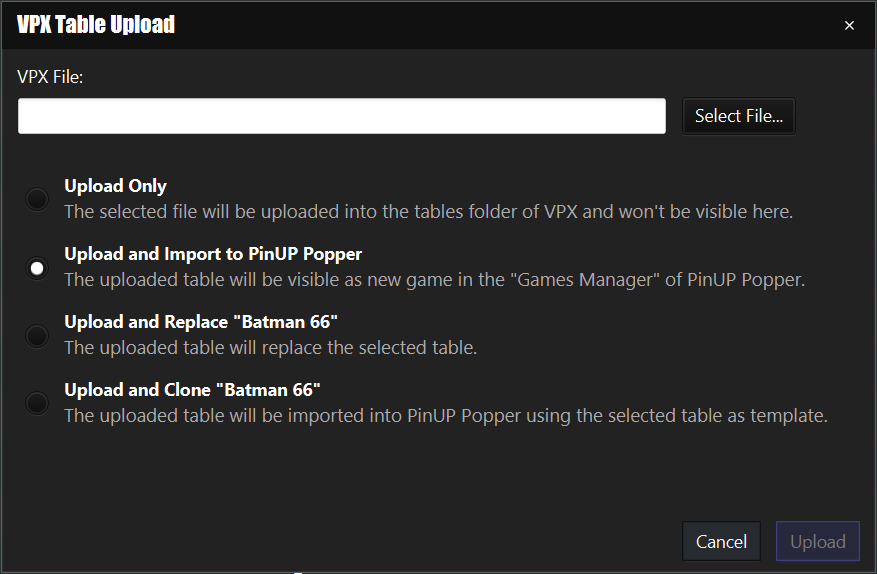
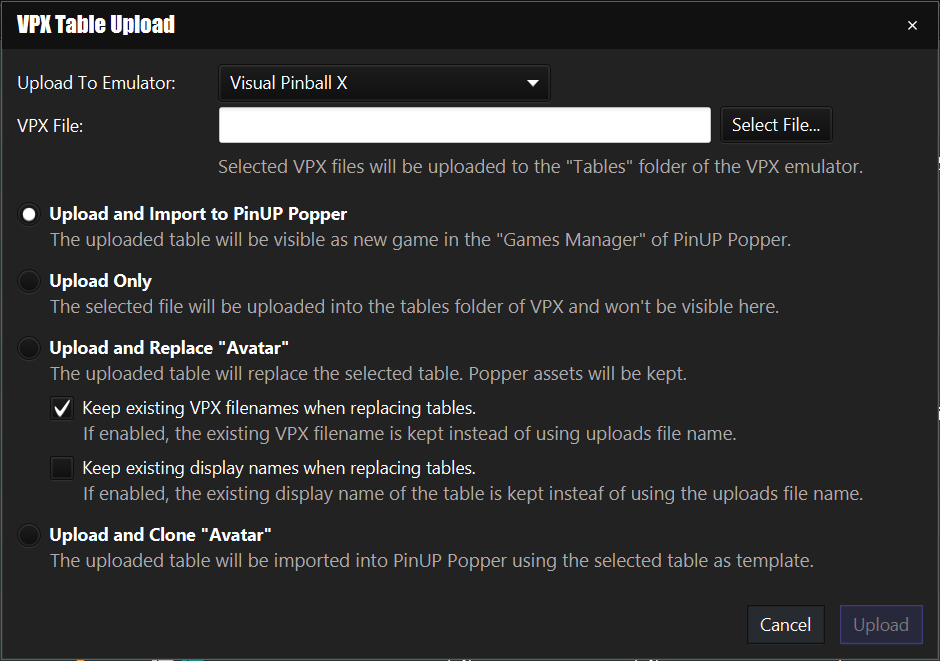
doc

diff --git a/vpin-studio-ui/src/main/java/de/mephisto/vpin/ui/tables/dialogs/TableUploadController.java b/vpin-studio-ui/src/main/java/de/mephisto/vpin/ui/tables/dialogs/TableUploadController.java
@@ -3,9 +3,11 @@ package de.mephisto.vpin.ui.tables.dialogs;
 import de.mephisto.vpin.commons.fx.DialogController;
 import de.mephisto.vpin.commons.utils.VpxArchiveAnalyzer;
 import de.mephisto.vpin.commons.utils.WidgetFactory;
+import de.mephisto.vpin.restclient.PreferenceNames;
 import de.mephisto.vpin.restclient.games.GameEmulatorRepresentation;
 import de.mephisto.vpin.restclient.games.GameRepresentation;
 import de.mephisto.vpin.restclient.games.descriptors.TableUploadDescriptor;
+import de.mephisto.vpin.restclient.preferences.ServerSettings;
 import de.mephisto.vpin.ui.Studio;
 import de.mephisto.vpin.ui.util.ProgressDialog;
 import de.mephisto.vpin.ui.util.StudioFileChooser;
@@ -28,6 +30,7 @@ import java.net.URL;
 import java.util.List;
 import java.util.ResourceBundle;
 
+import static de.mephisto.vpin.ui.Studio.client;
 import static de.mephisto.vpin.ui.Studio.stage;
 
 public class TableUploadController implements Initializable, DialogController {
@@ -47,6 +50,12 @@ public class TableUploadController implements Initializable, DialogController {
 
   @FXML
   private RadioButton uploadAndCloneRadio;
+
+  @FXML
+  private CheckBox keepNamesCheckbox;
+
+  @FXML
+  private CheckBox keepDisplayNamesCheckbox;
 
   @FXML
   private ComboBox<GameEmulatorRepresentation> emulatorCombo;
@@ -150,6 +159,8 @@ public class TableUploadController implements Initializable, DialogController {
 
   @Override
   public void initialize(URL url, ResourceBundle resourceBundle) {
+    ServerSettings serverSettings = client.getPreferenceService().getJsonPreference(PreferenceNames.SERVER_SETTINGS, ServerSettings.class);
+
     this.result = false;
     this.selection = null;
     this.uploadBtn.setDisable(true);
@@ -174,6 +185,19 @@ public class TableUploadController implements Initializable, DialogController {
     uploadAndImportRadio.setToggleGroup(toggleGroup);
     uploadAndCloneRadio.setToggleGroup(toggleGroup);
     uploadAndReplaceRadio.setToggleGroup(toggleGroup);
+
+
+    keepNamesCheckbox.setSelected(serverSettings.isVpxKeepFileNames());
+    keepNamesCheckbox.selectedProperty().addListener((observableValue, aBoolean, t1) -> {
+      serverSettings.setVpxKeepFileNames(t1);
+      client.getPreferenceService().setJsonPreference(PreferenceNames.SERVER_SETTINGS, serverSettings);
+    });
+
+    keepDisplayNamesCheckbox.setSelected(serverSettings.isVpxKeepDisplayNames());
+    keepDisplayNamesCheckbox.selectedProperty().addListener((observableValue, aBoolean, t1) -> {
+      serverSettings.setVpxKeepDisplayNames(t1);
+      client.getPreferenceService().setJsonPreference(PreferenceNames.SERVER_SETTINGS, serverSettings);
+    });
   }
 
   public void setGame(GameRepresentation game) {
@@ -189,6 +213,8 @@ public class TableUploadController implements Initializable, DialogController {
     }
     else {
       this.uploadAndReplaceRadio.setDisable(true);
+      this.keepDisplayNamesCheckbox.setDisable(true);
+      this.keepNamesCheckbox.setDisable(true);
       this.uploadAndCloneRadio.setDisable(true);
       this.gameId = -1;
     }

diff --git a/vpin-studio-ui/src/main/java/de/mephisto/vpin/ui/preferences/ServerSettingsPreferencesController.java b/vpin-studio-ui/src/main/java/de/mephisto/vpin/ui/preferences/ServerSettingsPreferencesController.java
@@ -1,13 +1,10 @@
 package de.mephisto.vpin.ui.preferences;
 
 import de.mephisto.vpin.commons.fx.OverlayWindowFX;
-import de.mephisto.vpin.commons.fx.UIDefaults;
 import de.mephisto.vpin.restclient.PreferenceNames;
 import de.mephisto.vpin.restclient.preferences.ServerSettings;
 import de.mephisto.vpin.restclient.representations.PreferenceEntryRepresentation;
 import de.mephisto.vpin.ui.PreferencesController;
-import javafx.beans.value.ChangeListener;
-import javafx.beans.value.ObservableValue;
 import javafx.collections.FXCollections;
 import javafx.fxml.FXML;
 import javafx.fxml.Initializable;
@@ -36,12 +33,6 @@ public class ServerSettingsPreferencesController implements Initializable {
 
   @FXML
   private Spinner<Integer> idleSpinner;
-
-  @FXML
-  private CheckBox keepNamesCheckbox;
-
-  @FXML
-  private CheckBox keepDisplayNamesCheckbox;
 
   @FXML
   private CheckBox launchPopperCheckbox;
@@ -109,18 +100,6 @@ public class ServerSettingsPreferencesController implements Initializable {
     mappingVpsVersionIdCombo.valueProperty().addListener((observable, oldValue, newValue) -> {
       serverSettings.setMappingVpsTableVersionId(newValue);
       PreferencesController.markDirty(PreferenceType.serverSettings);
-      client.getPreferenceService().setJsonPreference(PreferenceNames.SERVER_SETTINGS, serverSettings);
-    });
-
-    keepNamesCheckbox.setSelected(serverSettings.isVpxKeepFileNames());
-    keepNamesCheckbox.selectedProperty().addListener((observableValue, aBoolean, t1) -> {
-      serverSettings.setVpxKeepFileNames(t1);
-      client.getPreferenceService().setJsonPreference(PreferenceNames.SERVER_SETTINGS, serverSettings);
-    });
-
-    keepDisplayNamesCheckbox.setSelected(serverSettings.isVpxKeepDisplayNames());
-    keepDisplayNamesCheckbox.selectedProperty().addListener((observableValue, aBoolean, t1) -> {
-      serverSettings.setVpxKeepDisplayNames(t1);
       client.getPreferenceService().setJsonPreference(PreferenceNames.SERVER_SETTINGS, serverSettings);
     });
 

diff --git a/RELEASE_NOTES.md b/RELEASE_NOTES.md
@@ -5,15 +5,28 @@
 - Updated to Virtual Pinball Backup Manager 2.0. (Installer only)
 - Added hint for the backglass server settings that fozzy matching is not supported by the VPin Studio. You can enable it, but the Studio will always only look for exact .directb2s matches.
 - Added "Statistics" tab to the Table Data Manager dialog.
+
 - Added bulk dismissals: You can now multi-select a set of tables from the overview and dismiss all issues for these (useful in combination with filters).
+
+<img src="https://raw.githubusercontent.com/syd711/vpin-studio/main/documentation/tables/validation-error-bulk.png" width="600" />
+
+- Add preferences about "Upload and Replace" options into the table upload dialog, because that's where they are used.
+
+<img src="https://raw.githubusercontent.com/syd711/vpin-studio/main/documentation/tables/uploads.png" width="600" />
+
 - Added Table Filters.
+
+<img src="https://raw.githubusercontent.com/syd711/vpin-studio/main/documentation/tables/filters.png" width="600" />
+
 - Added Backglass Manager.
 
-<img src="https://raw.githubusercontent.com/syd711/vpin-studio/main/documentation/cards/transparent-cards.png" width="600" />
+<img src="https://raw.githubusercontent.com/syd711/vpin-studio/main/documentation/tables/backglass-manager.png" width="600" />
+
 
 ### Bugfixes
 
-- Table Data Manager: Fixed miscellaneous issues with the info badges.
+- Table Data Manager: Fixed miscellaneous issues with the info badges and ROM validations.
 - Table Data Manager: Fixed "Fix Version" action.
 - Table Data Manager: Added hints which fields will be overwritten on auto-fill.
+- Table Uploads: Fixed "Upload and Replace" option in combination with the "Keep..." settings and fixed related asset renaming.
 - Pause Menu: Fixed video author allow list so that an empty list shows all videos available in the pause menu. 
